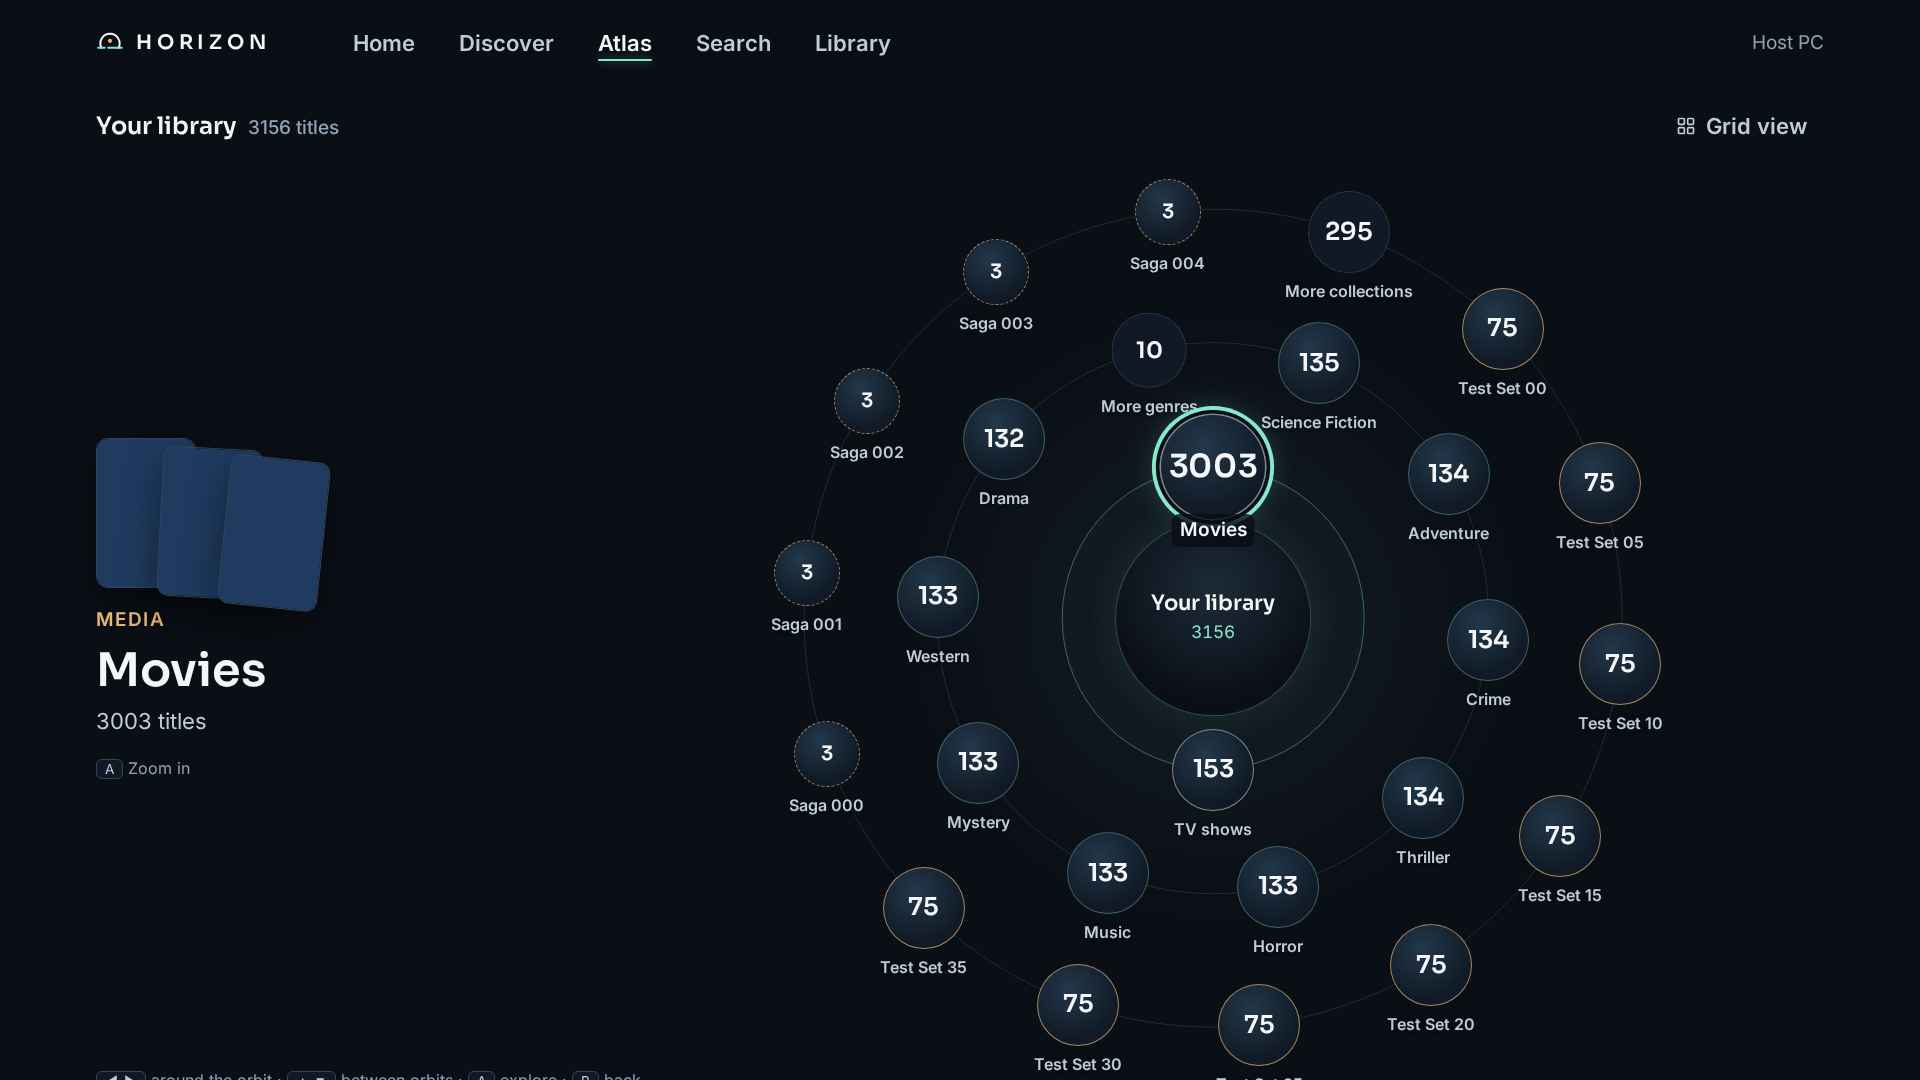
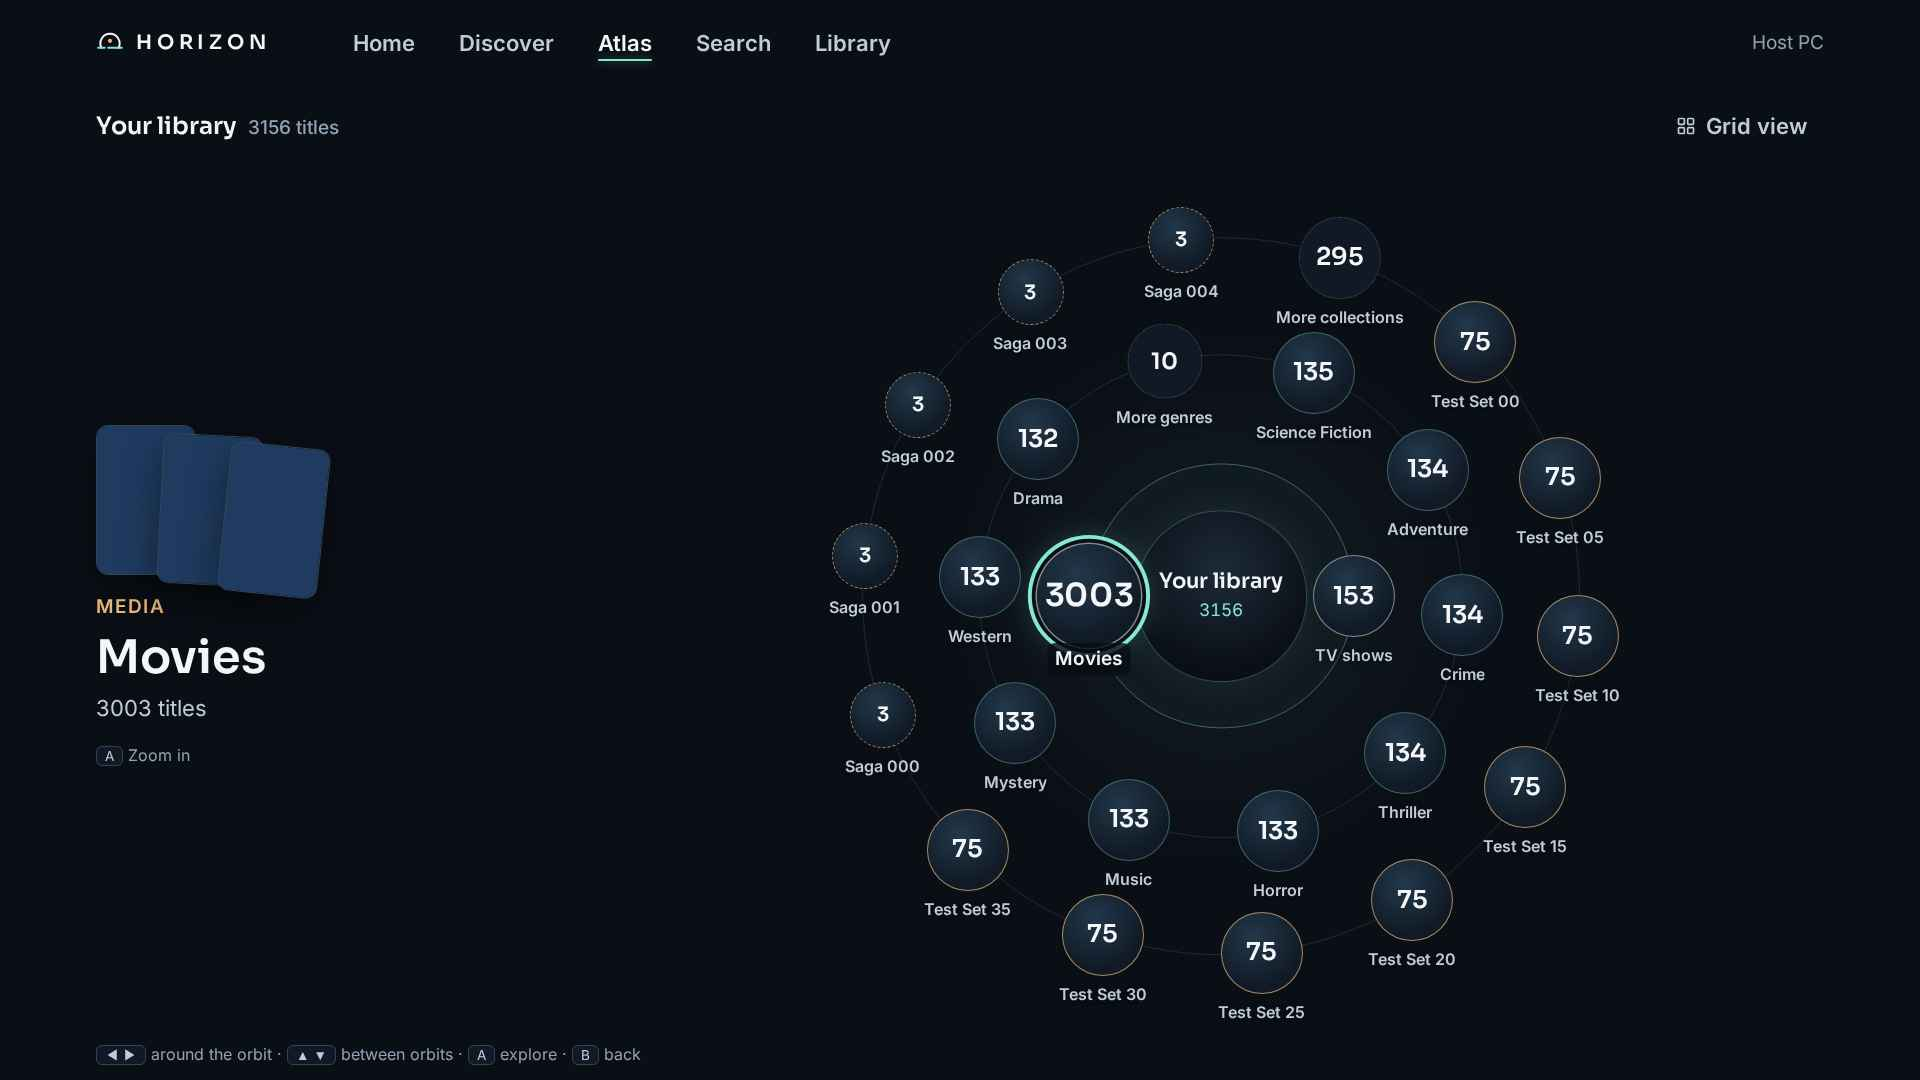
checkpoint before testing_agent_full_stack_o55
Emergent-Commit-Key: e9bc7eeb0c7db87be00bb65a932fbc796fdea2f197c05cc91065787864340ea5

diff --git a/frontend/src/pages/Atlas.tsx b/frontend/src/pages/Atlas.tsx
@@ -11,10 +11,12 @@ import { detailPath } from "../discover/query";
 import { useAsync, useBack } from "../hooks";
 import type { AtlasData, AtlasNode, DiscoverPage, MediaItem } from "../types";
 
-type Level = { node: AtlasNode | null; page: number; focus: [number, number] };
+type Level = { node: AtlasNode | null; page: number; focus: [number, number]; key?: string };
 const STACK_KEY = "horizon.atlas.stack";
 const MODE_KEY = "horizon.atlas.mode";
 const loadStack = (): Level[] => { try { const s = JSON.parse(sessionStorage.getItem(STACK_KEY) ?? "null"); return Array.isArray(s) && s.length ? s : [{ node: null, page: 0, focus: [0, 0] }]; } catch { return [{ node: null, page: 0, focus: [0, 0] }]; } };
+// Only ids and positions are remembered; group contents always come from the fresh /api/atlas response.
+const saveStack = (s: Level[]) => sessionStorage.setItem(STACK_KEY, JSON.stringify(s.map((l) => ({ ...l, node: l.node && { ...l.node, children: undefined } }))));
 
 function nodeQuery(n: AtlasNode): string {
   if (n.kind === "type") return `view=${n.value === "movie" ? "movies" : "shows"}`;
@@ -33,8 +35,14 @@ export default function Atlas() {
   const [page, setPage] = useState<{ key: string; items: MediaItem[]; total: number } | null>(null);
   const toolbar = useRef<HTMLDivElement>(null);
   const level = stack[stack.length - 1];
-  const node = level.node;
-  useEffect(() => sessionStorage.setItem(STACK_KEY, JSON.stringify(stack)), [stack]);
+  const overview = useMemo(() => (data ? overviewRings(data) : []), [data]);
+  const live = useMemo(() => {
+    const m = new Map<string, AtlasNode>();
+    for (const n of overview.flat()) { m.set(n.id, n); for (const c of n.children ?? []) m.set(c.id, c); }
+    return m;
+  }, [overview]);
+  const node = level.node ? live.get(level.node.id) ?? null : null;
+  useEffect(() => saveStack(stack), [stack]);
 
   const pageKey = node && node.kind !== "more" ? `${nodeQuery(node)}&p=${level.page}` : null;
   useEffect(() => {
@@ -44,7 +52,6 @@ export default function Atlas() {
       .then((d) => setPage({ key, items: d.items as MediaItem[], total: d.total }));
   }, [node, level.page]);
 
-  const overview = useMemo(() => (data ? overviewRings(data) : []), [data]);
   const groupItems = node?.kind === "more" ? (node.children ?? []).slice(level.page * PAGE_SIZE, (level.page + 1) * PAGE_SIZE) : null;
   const titles = page && page.key === pageKey ? page.items : null;
   const total = node ? (node.kind === "more" ? node.children?.length ?? 0 : page?.total ?? node.count) : data?.total ?? 0;
@@ -56,18 +63,29 @@ export default function Atlas() {
   const focused = rings[level.focus[0]]?.[level.focus[1]] ? flat[focusIdx] : undefined;
 
   const patch = useCallback((p: Partial<Level>) => setStack((s) => [...s.slice(0, -1), { ...s[s.length - 1], ...p }]), []);
-  // Restored levels may point at titles or groups that were removed since: fall back to the nearest valid spot.
+  const focusAt = (r: number, i: number) => patch({ focus: [r, i], key: rings[r]?.[i]?.key });
+  // Restored levels may point at titles or groups that were removed or re-sorted since: prefer the same node by id,
+  // else the nearest valid spot; a vanished cluster zooms out one level.
   const ready = !node || !!groupItems || !!titles;
   useEffect(() => {
-    if (!data || !ready) return;
+    if (!data) return;
+    if (level.node && !node) { setStack((s) => (s.length > 1 ? s.slice(0, -1) : [{ node: null, page: 0, focus: [0, 0] }])); return; }
+    if (!ready) return;
     if (node && !rings.length) {
-      if (level.page > 0) patch({ page: pages - 1, focus: [0, 0] });
+      if (level.page > 0) patch({ page: pages - 1, focus: [0, 0], key: undefined });
       else setStack((s) => (s.length > 1 ? s.slice(0, -1) : s));
       return;
     }
-    if (!rings.length || rings[level.focus[0]]?.[level.focus[1]]) return;
+    if (!rings.length) return;
+    if (level.key && rings[level.focus[0]]?.[level.focus[1]]?.key !== level.key) {
+      for (let r = 0; r < rings.length; r++) {
+        const i = rings[r].findIndex((n) => n.key === level.key);
+        if (i >= 0) { patch({ focus: [r, i] }); return; }
+      }
+    }
+    if (rings[level.focus[0]]?.[level.focus[1]]) return;
     const r = Math.min(level.focus[0], rings.length - 1);
-    patch({ focus: [r, Math.min(level.focus[1], rings[r].length - 1)] });
+    focusAt(r, Math.min(level.focus[1], rings[r].length - 1));
   });
   const focusSelected = () => {
     let tries = 0;
@@ -84,13 +102,13 @@ export default function Atlas() {
     const idx = rings.slice(0, r).reduce((a, x) => a + x.length, 0) + i;
     const target = flat[idx];
     if (!target) return;
-    patch({ focus: [r, i] });
+    focusAt(r, i);
     if ("type" in target && (target.type === "movie" || target.type === "show")) { navigate(detailPath(target)); return; }
     setZoom("in");
-    setStack((s) => [...s.slice(0, -1), { ...s[s.length - 1], focus: [r, i] }, { node: target as AtlasNode, page: 0, focus: [0, 0] }]);
+    setStack((s) => [...s.slice(0, -1), { ...s[s.length - 1], focus: [r, i], key: rings[r]?.[i]?.key }, { node: target as AtlasNode, page: 0, focus: [0, 0] }]);
     focusSelected();
   };
-  const setPageTo = (p: number) => { if (p >= 0 && p < pages) { patch({ page: p, focus: [0, 0] }); focusSelected(); } };
+  const setPageTo = (p: number) => { if (p >= 0 && p < pages) { patch({ page: p, focus: [0, 0], key: undefined }); focusSelected(); } };
   useBack(() => {
     if (stack.length < 2) return false;
     setZoom("out");
@@ -137,7 +155,7 @@ export default function Atlas() {
         <InfoPanel node={focused} level={node ? "cluster" : "overview"} />
         {node && !groupItems && !titles ? <Loading /> : mode === "orbit" ? (
           <Sky key={`${node?.id ?? "root"}-${level.page}`} rings={rings} focus={level.focus} level={node ? "cluster" : "overview"} zoom={zoom}
-            onFocus={(r, i) => patch({ focus: [r, i] })} onOpen={openAt}
+            onFocus={focusAt} onOpen={openAt}
             onExitUp={() => toolbar.current?.querySelector<HTMLElement>("button:not([disabled]):not([hidden])")?.focus()}
             center={<><b>{crumb}</b><span>{total}</span></>} />
         ) : (
@@ -148,11 +166,11 @@ export default function Atlas() {
               const on = level.focus[0] === r && level.focus[1] === i;
               return item && "type" in item ? (
                 <div role="listitem" key={n.key} aria-current={on ? "true" : undefined}>
-                  <MediaCard item={item} index={idx} onOpen={() => openAt(r, i)} onFocus={() => patch({ focus: [r, i] })} />
+                  <MediaCard item={item} index={idx} onOpen={() => openAt(r, i)} onFocus={() => focusAt(r, i)} />
                 </div>
               ) : (
                 <button key={n.key} role="listitem" className={`atlas-gcard star--${n.kind}${n.source ? ` star--${n.source}` : ""}`} aria-current={on ? "true" : undefined}
-                  data-autofocus={on || undefined} onFocus={() => patch({ focus: [r, i] })} onClick={() => openAt(r, i)} data-testid={`atlas-gnode-${n.key}`}>
+                  data-autofocus={on || undefined} onFocus={() => focusAt(r, i)} onClick={() => openAt(r, i)} data-testid={`atlas-gnode-${n.key}`}>
                   <b>{n.label}</b><span>{n.count} {n.kind === "more" ? "groups" : "titles"}</span>
                 </button>
               );

diff --git a/frontend/src/pages/Search.tsx b/frontend/src/pages/Search.tsx
@@ -49,7 +49,7 @@ export default function Search() {
   const lastResult = useRef<string | null>(restore?.key ?? null);
   const exitRight = () => {
     const all = Array.from(document.querySelectorAll<HTMLElement>(".search-results [data-key]"));
-    const el = all.find((x) => x.dataset.key === lastResult.current) ?? all[0];
+    const el = all.find((x) => x.dataset.key === lastResult.current) ?? all[0] ?? document.querySelector<HTMLElement>(".search-results button");
     el?.focus({ preventScroll: true });
     el?.scrollIntoView({ block: "nearest" });
     return !!el;
@@ -74,7 +74,7 @@ export default function Search() {
     const all = Array.from(document.querySelectorAll<HTMLElement>(".search-results [data-key]"));
     const el = all.find((x) => x.dataset.key === restore.key) ?? all[Math.min(restore.index, all.length - 1)];
     if (el) { el.focus({ preventScroll: true }); window.scrollTo({ top: restore.scroll, behavior: "auto" }); }
-    else document.querySelector<HTMLElement>(".osk-key")?.focus();
+    else (document.querySelector<HTMLElement>(`[data-testid="${sessionStorage.getItem("horizon.search.oskKey") ?? "osk-key-a"}"]`) ?? document.querySelector<HTMLElement>(".osk-key"))?.focus();
   }, [res, restore]);
 
   const open = (key: string, to: string) => {

diff --git a/frontend/src/discover/discover.css b/frontend/src/discover/discover.css
@@ -157,6 +157,7 @@
   font-size: var(--fs-fine); font-weight: 600; color: var(--muted); text-shadow: 0 1px 8px #0A0E15; pointer-events: none; }
 .star--selected { z-index: 3; }
 .star--selected .star-body { transform: scale(1.3); }
+.sky--overview .star--selected .star-body { transform: scale(1.16); } /* dense overview: keep neighbouring labels readable */
 .star--selected .star-label { color: var(--text); font-size: var(--fs-meta); max-width: 260px; z-index: 4; background: rgb(10 14 21 / 0.8); padding: 2px 8px; border-radius: 8px; }
 .star:focus-visible .star-body, body[data-input="keys"] .star:focus .star-body, body[data-input="pad"] .star:focus .star-body { box-shadow: var(--focus); }
 .sky--cluster .star--selected .star-label { top: calc(100% + 14px); max-width: 260px; }

diff --git a/frontend/src/search/Osk.tsx b/frontend/src/search/Osk.tsx
@@ -37,7 +37,7 @@ export function Osk({ onKey, onBackspace, onClear, onExitRight, autofocus }: Pro
   return (
     <div className="osk" ref={box} role="group" aria-label="On-screen keyboard" onKeyDown={onKeyDown} onFocus={onFocus} data-testid="osk">
       {ROWS.map((row) => (
-        <div className="osk-row" key={row} data-nav-row>
+        <div className="osk-row" key={row} data-nav-row data-nav-up={row === ROWS[0] ? '[data-testid="search-input"]' : undefined}>
           {[...row].map((ch) => (
             <button key={ch} className="osk-key" onClick={() => onKey(ch)}
               data-testid={`osk-key-${ID[ch] ?? ch}`} aria-label={NAMES[ch] ?? ch.toUpperCase()}>{ch.toUpperCase()}</button>
